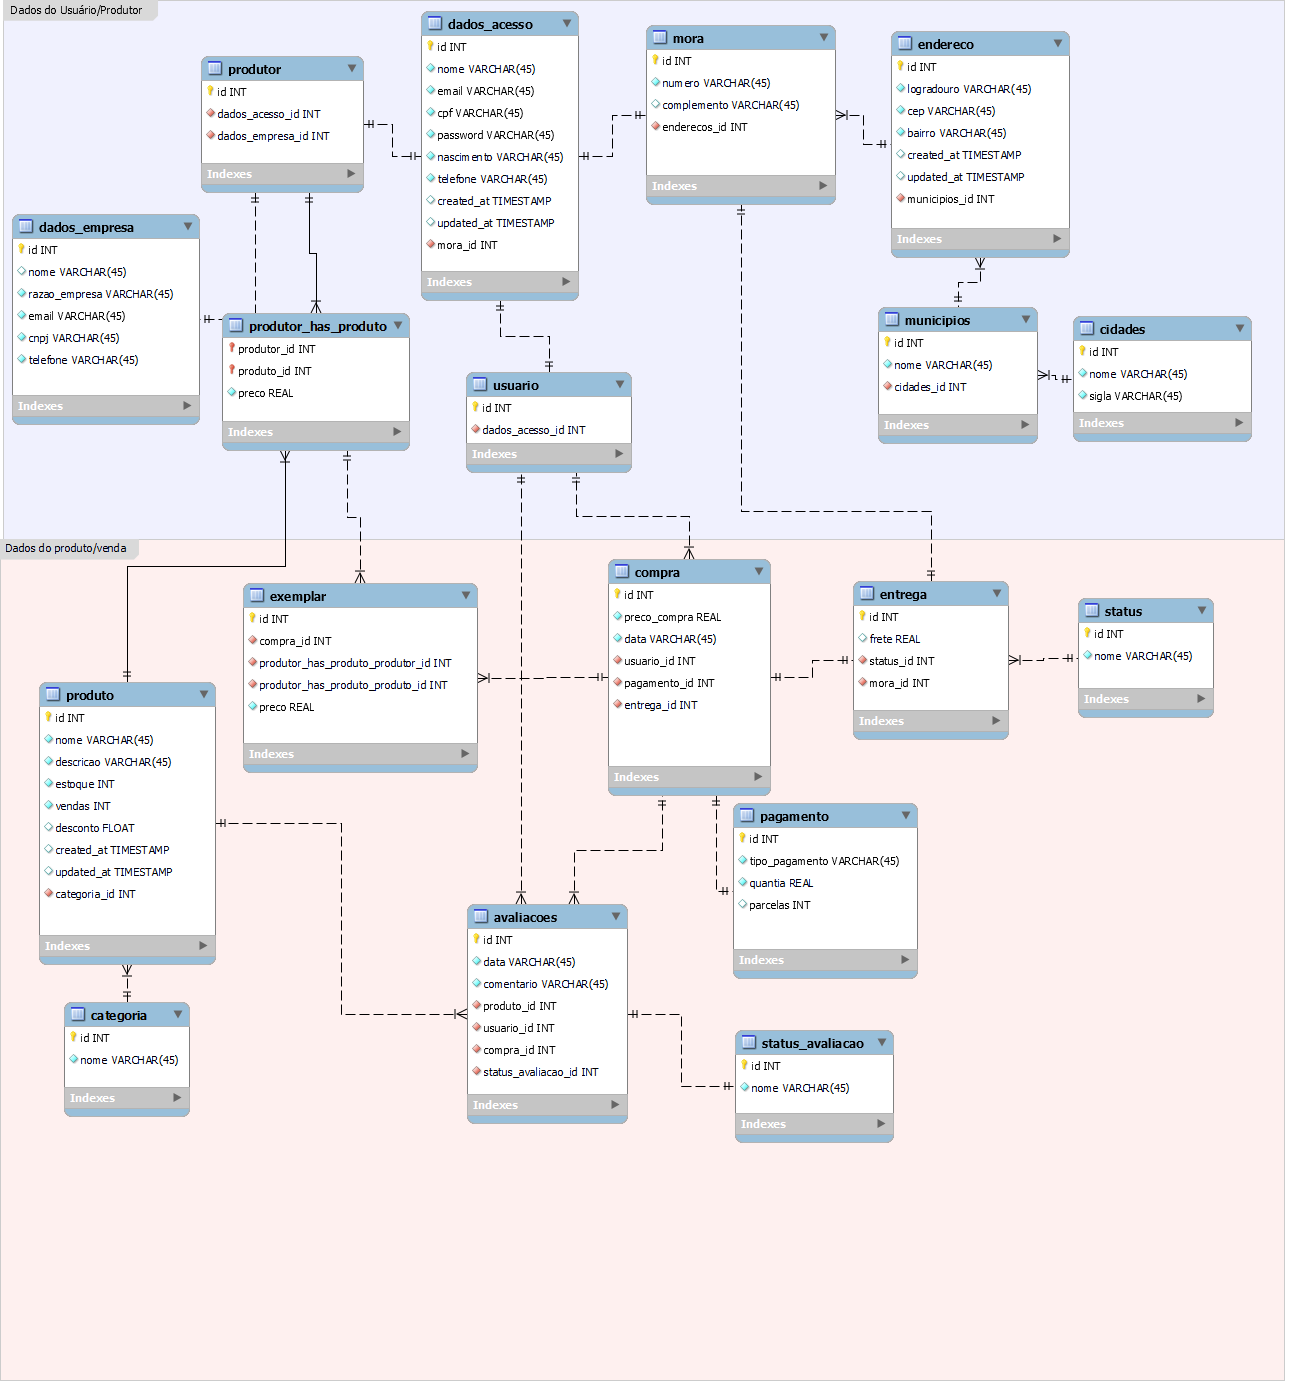
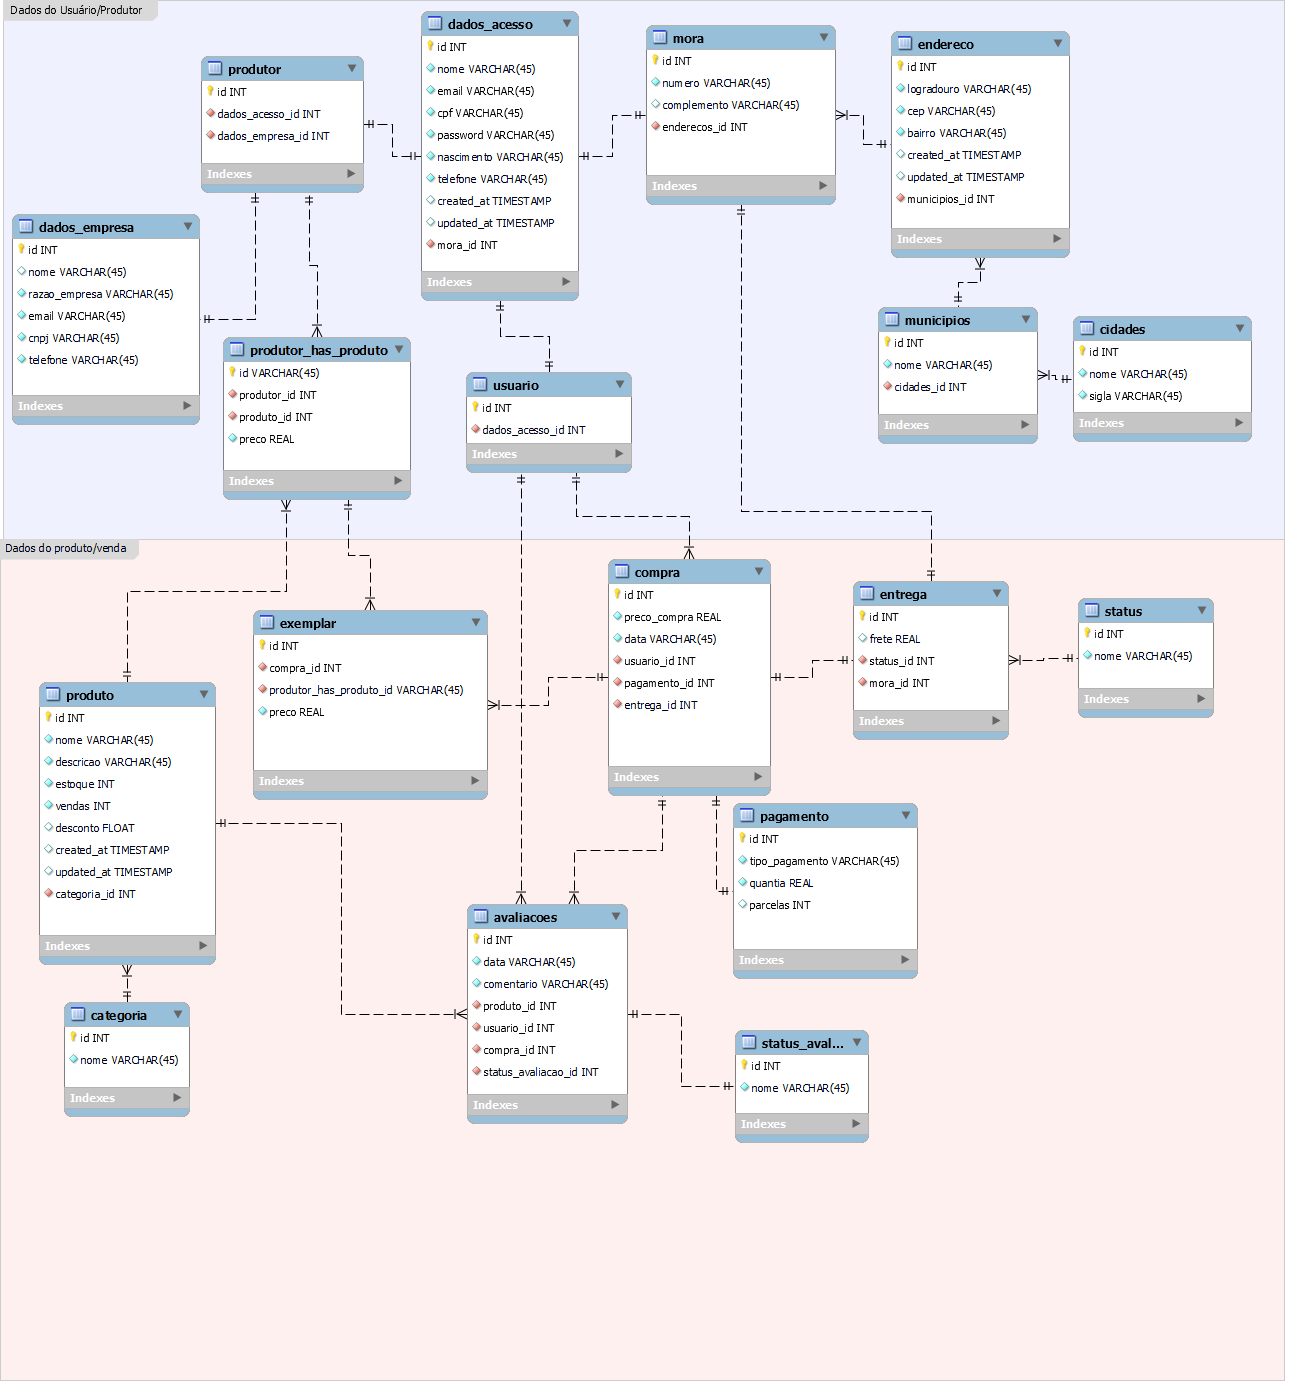
Ao realizar a compra de um produto, já salva no banco os dados referente a compra

diff --git a/app/Http/Controllers/StripeController.php b/app/Http/Controllers/StripeController.php
@@ -2,24 +2,17 @@
 
 namespace App\Http\Controllers;
 
-use App\Models\Compra;
 use App\Models\Produto;
 use Carbon\Carbon;
 use Illuminate\Http\Request;
 use Illuminate\Support\Facades\Crypt;
 
 class StripeController extends Controller{
-    protected $compras;
-    public function __construct(Compra $compras) {
-        $this->compras = $compras;
-    }
-
     public function session($id){
-        $produto = Produto::find(Crypt::decrypt($id));
         \Stripe\Stripe::setApiKey(config('stripe.sk'));
 
-        // dd($stripe->paymentIntents)
-
+        $produto = Produto::find(Crypt::decrypt($id));
+        $pivo = $produto->produtor_has_produto->first();
         try {
            // Criar um produto no Stripe (associado ao produto no seu sistema)
             $product = \Stripe\Product::create([
@@ -34,6 +27,12 @@ class StripeController extends Controller{
                 'currency' => 'BRL',
             ]);
 
+            session(['product_details' =>[
+                'preco' => $produto->preco_desconto,
+                'pivo_id' => $pivo->id
+            ]]);
+
+
             // Criar uma sessão de checkout e vincular ao preço criado
             $session = \Stripe\Checkout\Session::create([
                 'payment_method_types' => ['card'],
@@ -45,40 +44,13 @@ class StripeController extends Controller{
                 ],
                 'mode' => 'payment',
 
-                'success_url' => route('produto.index'),
+                'success_url' => route('success'),
+                // 'cancel_url'  => route('checkout'),
             ]);
 
-
-            $this->salvarDadosNoBanco($produto, $session);
             return redirect()->away($session->url);
-
         }catch (\Stripe\Exception\ApiErrorException $e) {
             return response()->json(['error' => $e->getMessage()], 500);
         }
-
-
-
     }
-
-
-
-    public function salvarDadosNoBanco($produto, $session){
-        dd($produto->preco_desconto);
-
-        $dataAtual = Carbon::now()->toDateString();
-        $this->compras->create([
-            'session_id_stripe' => $session->id,
-            'data' => $dataAtual,
-            // 'preco_compra' =>
-            // 'usuario_id' =>
-        ]);
-
-
-    }
-
-
-
-
-
-
 }

diff --git a/app/Http/Controllers/CompraController.php b/app/Http/Controllers/CompraController.php
@@ -3,11 +3,23 @@
 namespace App\Http\Controllers;
 
 use App\Models\Compra;
+use App\Models\Exemplar;
+use Carbon\Carbon;
+use Exception;
 use Illuminate\Http\Request;
 use Illuminate\Support\Facades\Auth;
+use Illuminate\Support\Facades\Crypt;
+use Illuminate\Support\Facades\DB;
 
 class CompraController extends Controller
 {
+    protected $compras, $exemplar;
+
+    public function __construct(Compra $compras, Exemplar $exemplar) {
+        $this->compras = $compras;
+        $this->exemplar = $exemplar;
+    }
+
     /**
      * Display a listing of the resource.
      */
@@ -36,9 +48,31 @@ class CompraController extends Controller
     /**
      * Store a newly created resource in storage.
      */
-    public function store(Request $request)
-    {
-        //
+    public function store(Request $request){
+        $productDetails = session('product_details');
+        DB::beginTransaction();
+
+        try{
+            $compra = $this->compras->create([
+                'preco_compra' => $productDetails['preco'],
+                'data' => Carbon::now()->toDateString(),
+                'usuario_id' => Auth::user()->usuario[0]->id,
+            ]);
+
+            $this->exemplar->create([
+                'compra_id' => $compra->id,
+                'pivo_id' => $productDetails['pivo_id'],
+                'preco' => $productDetails['preco'],
+            ]);
+
+            DB::commit();
+            session()->forget('product_details');
+
+            return redirect()->route('pedido.show', Crypt::encrypt($compra->id));
+        }catch(Exception $e){
+            DB::rollBack();
+            return response()->json(['error' => $e->getMessage()], 500);
+        }
     }
 
     /**
@@ -46,7 +80,9 @@ class CompraController extends Controller
      */
     public function show(string $id)
     {
-        //
+        $compra = $this->compras->find(Crypt::decrypt($id));
+        
+        return view('pedidos.detalhes_compra', compact('compra'));
     }
 
     /**

diff --git a/resources/views/pedidos/detalhes_compra.blade.php b/resources/views/pedidos/detalhes_compra.blade.php
@@ -1,0 +1,48 @@
+@extends('templates.template_view')
+
+@section('insert_head')
+    <link rel="stylesheet" href="{{ asset('css/meu_pedidos.css') }}">
+    <title>Mercado libre</title>
+@endsection
+
+@section('insert_body')
+    <header>
+        <div class="logo">
+            <a href="{{route("listagem_produtos")}}" style="height: 100%">
+                <img src="{{ asset('images/mercado-libre.png') }}" alt="">
+            </a>
+
+            <form action="{{route('produto.search')}}" method="GET">
+                <div style="display: flex">
+                    <input type="text" class="search" name="query" placeholder="Buscar produtos, marcas e muito mais...">
+                    <button type="submit"><i class="fa-solid fa-magnifying-glass"></i></button>
+                </div>
+            </form>
+
+            @if (Route::has('login'))
+                <div>
+                    <nav style="">
+                        @auth
+                            <a href="{{ url('/dashboard') }}">Dashboard</a>
+
+                            <a href="{{route('produto.indexAuth')}}">Meus produtos</a>
+                        @else
+                            <a href="{{ route('registration') }}">Crie a sua conta</a>
+                            <a href="{{ route('login') }}">Entre</a>
+                        @endauth
+                        <a href="">Compras</a>
+                        <a href=""><i class="fa-solid fa-cart-shopping"></i></a>
+                    </nav>
+                </div>
+            @endif
+        </div>
+    </header>
+
+
+    <main>
+        <h2>
+            Thanks for your order! You have just completed your payment. The seller will reach out to you as soon as possible.
+        </h2>
+    </main>
+
+@endsection

diff --git a/routes/web.php b/routes/web.php
@@ -47,7 +47,12 @@ Route::middleware('auth')->group(function () {
     // Route::put('/produto/update/{id}', [ProdutoController::class, 'update'])->name('produto.update');
     // Route::delete('/produto/destroy/{id}', [ProdutoController::class, 'destroy'])->name('produto.destroy');
 
-    Route::resource('pedido', CompraController::class);
+
+
+    Route::resource('pedido', CompraController::class)->except('store');
+    Route::get('/success', [CompraController::class, 'store'])->name('success');
+
+
     Route::resource('reviews', AvaliacaoController::class)->except('create');
     Route::get('/reviews/create/{id}', [AvaliacaoController::class, 'create'])->name('reviews.create');
 
